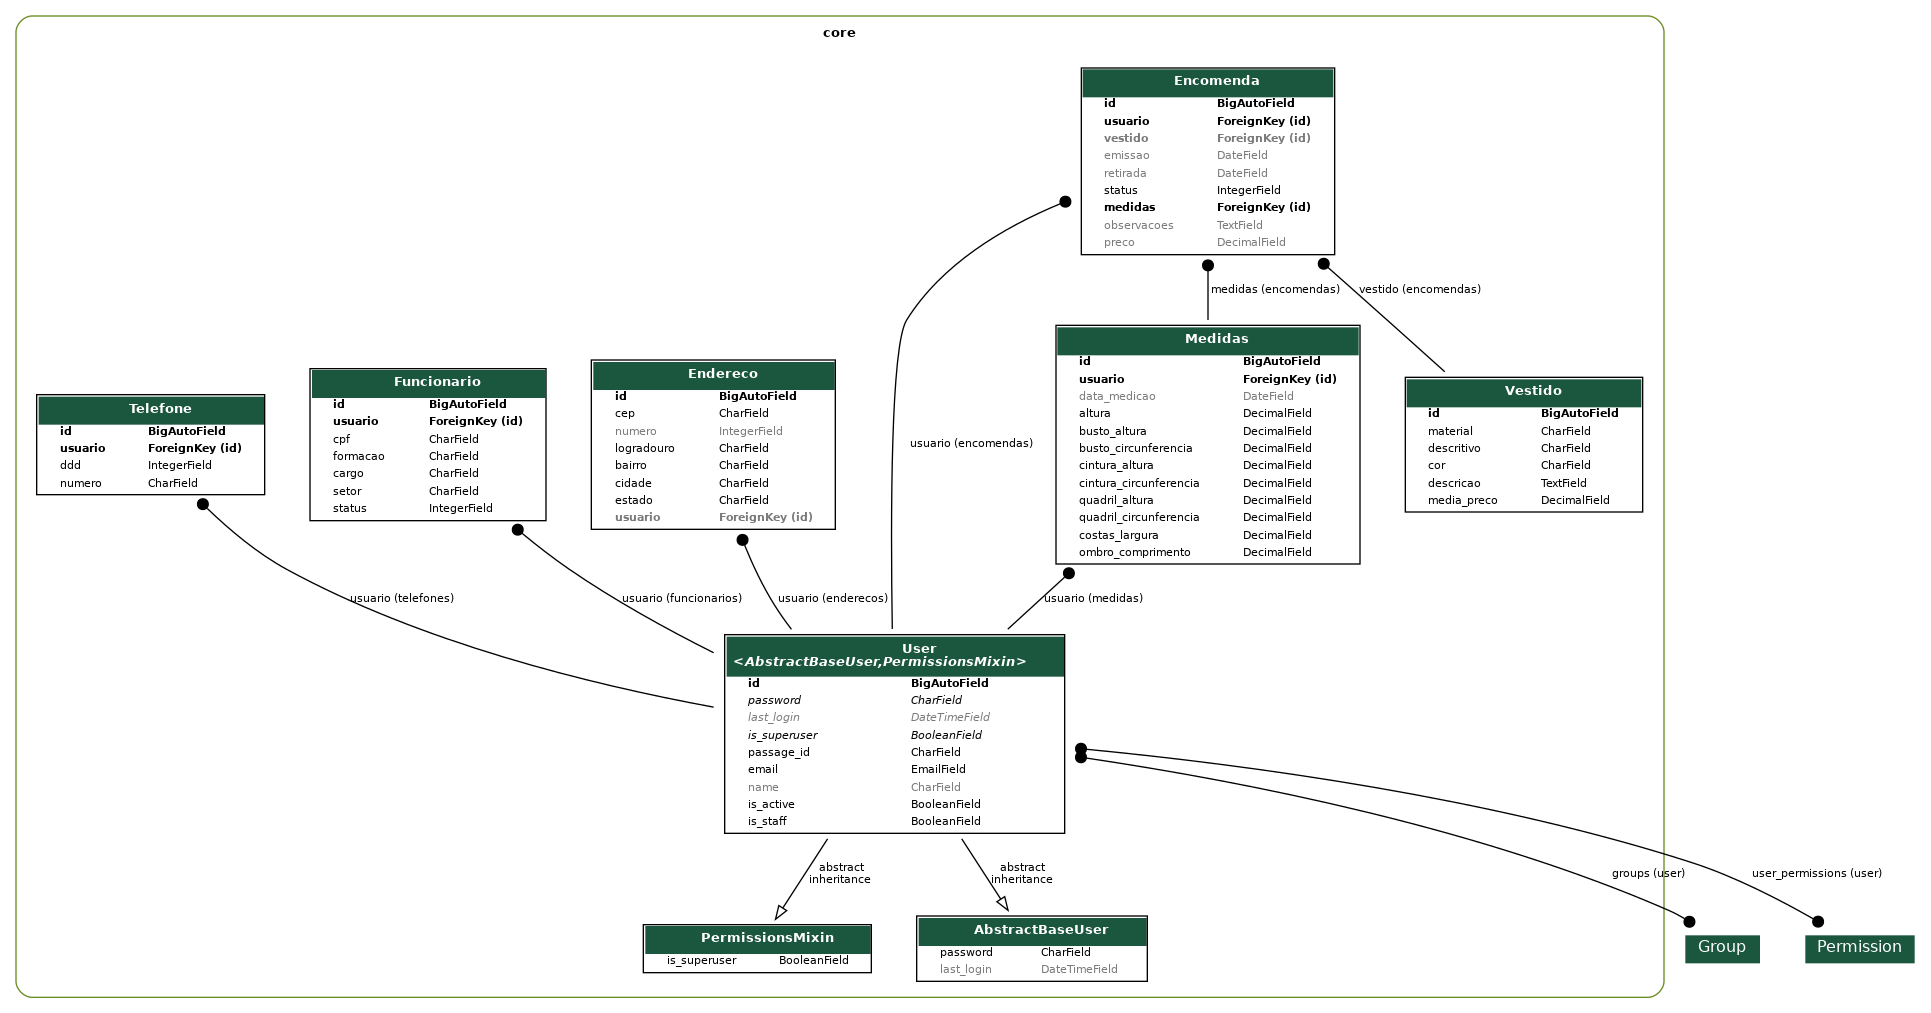
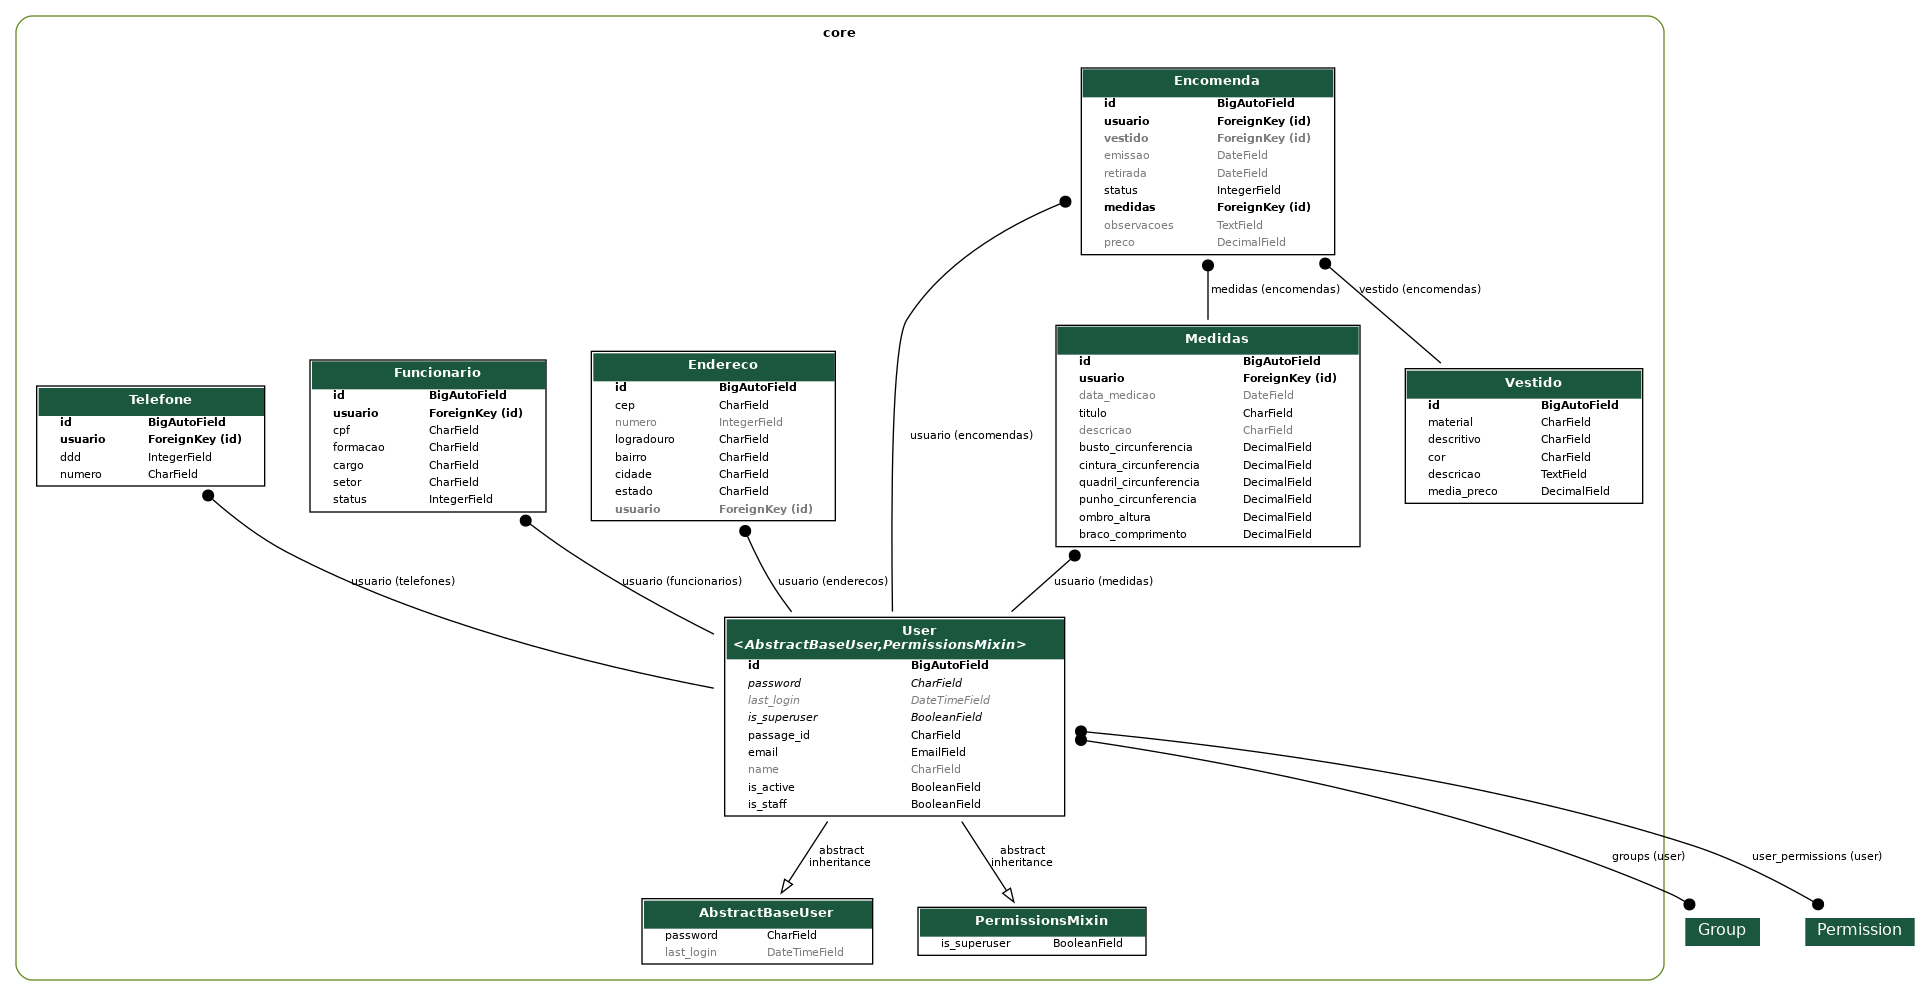
feat: alteração de dados de Medidas #5

diff --git a/core/migrations/0015_remove_medidas_altura_remove_medidas_busto_altura_and_more.py b/core/migrations/0015_remove_medidas_altura_remove_medidas_busto_altura_and_more.py
@@ -1,0 +1,77 @@
+# Generated by Django 5.1.7 on 2025-07-10 14:46
+
+from django.db import migrations, models
+
+
+class Migration(migrations.Migration):
+
+    dependencies = [
+        ('core', '0014_remove_encomenda_manga_comprimento_and_more'),
+    ]
+
+    operations = [
+        migrations.RemoveField(
+            model_name='medidas',
+            name='altura',
+        ),
+        migrations.RemoveField(
+            model_name='medidas',
+            name='busto_altura',
+        ),
+        migrations.RemoveField(
+            model_name='medidas',
+            name='cintura_altura',
+        ),
+        migrations.RemoveField(
+            model_name='medidas',
+            name='costas_largura',
+        ),
+        migrations.RemoveField(
+            model_name='medidas',
+            name='ombro_comprimento',
+        ),
+        migrations.RemoveField(
+            model_name='medidas',
+            name='quadril_altura',
+        ),
+        migrations.AddField(
+            model_name='medidas',
+            name='braco_comprimento',
+            field=models.DecimalField(decimal_places=2, default=1, max_digits=5, verbose_name='Comprimento do braço'),
+        ),
+        migrations.AddField(
+            model_name='medidas',
+            name='descricao',
+            field=models.CharField(blank=True, max_length=100, null=True, verbose_name='Descrição'),
+        ),
+        migrations.AddField(
+            model_name='medidas',
+            name='ombro_altura',
+            field=models.DecimalField(decimal_places=2, default=1, max_digits=5, verbose_name='Altura do ombro'),
+        ),
+        migrations.AddField(
+            model_name='medidas',
+            name='punho_circunferencia',
+            field=models.DecimalField(decimal_places=2, default=1, max_digits=5, verbose_name='Circunferência do punho'),
+        ),
+        migrations.AddField(
+            model_name='medidas',
+            name='titulo',
+            field=models.CharField(default='Título', max_length=40, verbose_name='Título'),
+        ),
+        migrations.AlterField(
+            model_name='medidas',
+            name='busto_circunferencia',
+            field=models.DecimalField(decimal_places=2, default=1, max_digits=5, verbose_name='Circunferência do busto'),
+        ),
+        migrations.AlterField(
+            model_name='medidas',
+            name='cintura_circunferencia',
+            field=models.DecimalField(decimal_places=2, default=1, max_digits=5, verbose_name='Circunferência da cintura'),
+        ),
+        migrations.AlterField(
+            model_name='medidas',
+            name='quadril_circunferencia',
+            field=models.DecimalField(decimal_places=2, default=1, max_digits=5, verbose_name='Circunferência do quadril'),
+        ),
+    ]

diff --git a/core/models/medidas.py b/core/models/medidas.py
@@ -6,50 +6,47 @@ from .user import User
 class Medidas(models.Model):
     usuario = models.ForeignKey(User, related_name="medidas", on_delete=models.CASCADE, verbose_name="Usuário")
     data_medicao = models.DateField(auto_now_add=True)
-    altura = models.DecimalField(max_digits=5, decimal_places=2)
-    busto_altura = models.DecimalField(
-        max_digits=5,
-        decimal_places=2,
-        verbose_name="Altura do busto"
-    )
+    titulo = models.CharField(max_length=40, verbose_name="Título", default="Título")
+    descricao = models.CharField(max_length=100, verbose_name="Descrição", null=True, blank=True)
     busto_circunferencia = models.DecimalField(
         max_digits=5,
         decimal_places=2,
+        default=1,
         verbose_name="Circunferência do busto"
-    )
-    cintura_altura = models.DecimalField(
-        max_digits=5,
-        decimal_places=2,
-        verbose_name="Altura da cintura"
     )
     cintura_circunferencia = models.DecimalField(
         max_digits=5,
         decimal_places=2,
+        default=1,
         verbose_name="Circunferência da cintura"
-    )
-    quadril_altura = models.DecimalField(
-        max_digits=5,
-        decimal_places=2,
-        verbose_name="Altura do quadril"
     )
     quadril_circunferencia = models.DecimalField(
         max_digits=5,
         decimal_places=2,
+        default=1,
         verbose_name="Circunferência do quadril"
     )
-    costas_largura = models.DecimalField(
+    punho_circunferencia = models.DecimalField(
         max_digits=5,
         decimal_places=2,
-        verbose_name="Largura das costas"
+        default=1,
+        verbose_name="Circunferência do punho"
     )
-    ombro_comprimento = models.DecimalField(
+    ombro_altura = models.DecimalField(
         max_digits=5,
         decimal_places=2,
-        verbose_name="Comprimento do ombro"
+        default=1,
+        verbose_name="Altura do ombro"
+    )
+    braco_comprimento = models.DecimalField(
+        max_digits=5,
+        decimal_places=2,
+        default=1,
+        verbose_name="Comprimento do braço"
     )
 
     def __str__(self):
-        return f"{self.id} - {self.usuario.name} {self.data_medicao}"
+        return f"{self.id} - {self.usuario.name} {self.titulo}"
 
     class Meta:
         verbose_name = "Medida"
